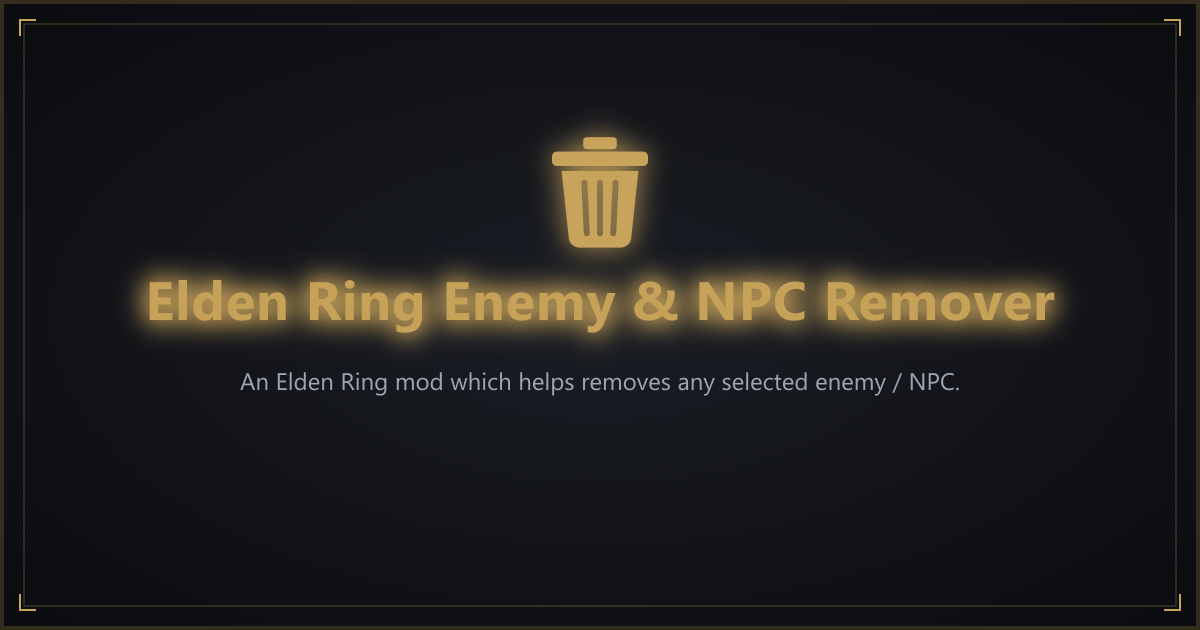
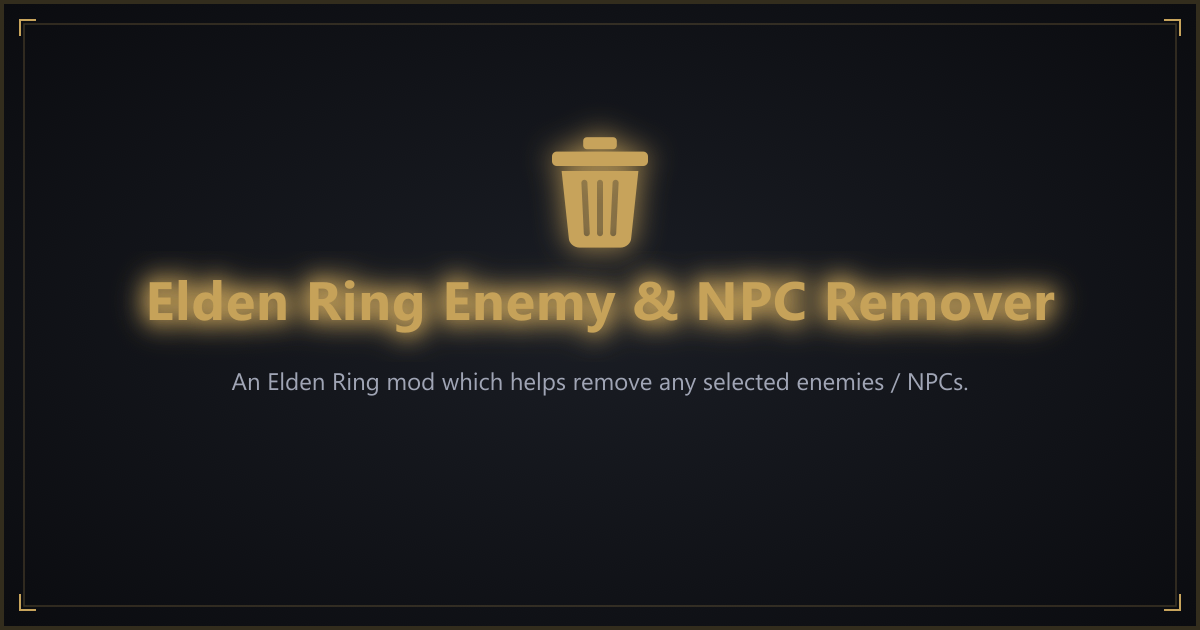
Updating the instructions a bit to fix language, as well as allow for deletion of the original files.

Changed region(s): [[0.185, 0.573, 0.8017, 0.6333]]

diff --git a/index.html b/index.html
@@ -4,10 +4,10 @@
     <meta charset="UTF-8">
     <title>Elden Ring Enemy & NPC Remover</title>
     <meta name="viewport" content="width=device-width, initial-scale=1.0">
-    <meta name="description" content="An Elden Ring mod which helps removes any selected enemy / NPC, whether to aid with phobias or for other reasons.">
+    <meta name="description" content="An Elden Ring mod which helps remove any selected enemies / NPCs, whether to aid with phobias or for other reasons.">
     <link rel="canonical" href="https://kazeraniman.github.io/enemy-and-npc-remover-web/">
     <meta property="og:title" content="Elden Ring Enemy & NPC Remover">
-    <meta property="og:description" content="An Elden Ring mod which helps removes any selected enemy / NPC, whether to aid with phobias or for other reasons.">
+    <meta property="og:description" content="An Elden Ring mod which helps remove any selected enemies / NPCs, whether to aid with phobias or for other reasons.">
     <meta property="og:image" content="https://kazeraniman.github.io/enemy-and-npc-remover-web/og-image.png">
     <meta property="og:url" content="https://kazeraniman.github.io/enemy-and-npc-remover-web/">
     <meta property="og:type" content="website">
@@ -83,7 +83,7 @@
                 <li>Navigate to the <code>chr</code> folder inside the <code>mod</code> folder. If it does not exist,
                     create it first. Ensure it is called exactly <code>chr</code>.
                 </li>
-                <li>Paste all the copied files into this folder.</li>
+                <li>Paste all the copied files into this folder. You can now go back and delete the zip file and the extracted files from before if you would like.</li>
                 <li>Launch your game the normal way you do with ModEngine2 and confirm that everything is working as
                     intended. You will not need to follow the previous steps again unless you want to change the
                     replacements.

diff --git a/README.md b/README.md
@@ -1,8 +1,8 @@
-# Elden Ring Enemy and NPC Remover
-An Elden Ring mod which helps removes any selected NPC / enemy, whether to aid with phobias or for other reasons.
+# Elden Ring Enemy & NPC Remover
+An Elden Ring mod which helps remove any selected enemies / NPCs, whether to aid with phobias or for other reasons.
 
 ## Concept
-The [original mod](https://www.nexusmods.com/eldenring/mods/4392) worked by replacing the files for a given character using [ModEngine2](https://github.com/soulsmods/ModEngine2). While the original mod works perfectly, it requires the user to find the ID of the enemy or NPC they wish to replace and then rename the files to that ID. This adds a bit of friction to the experience. This mod tries to help with this by providing a website which lets you pick the from a list of all entities and then provides you with the files to put in the mod folder to replace them. If you do not wish to run scripts on your computer, and just for general ease-of-use, I encourage using this version over the desktop version.
+The [original mod](https://www.nexusmods.com/eldenring/mods/4392) worked by replacing the files for a given character using [ModEngine2](https://github.com/soulsmods/ModEngine2). While the original mod works perfectly, it requires the user to find the ID of the enemy or NPC they wish to replace and then rename the files to that ID. This adds a bit of friction to the experience. This mod tries to help with this by providing a website which lets you pick from a list of all entities and then provides you with the files to put in the mod folder to replace them. If you do not wish to run scripts on your computer, and just for general ease-of-use, I encourage using this version over the desktop version.
 
 ## Webpage
 The current, live page may be viewed [here](https://kazeraniman.github.io/enemy-and-npc-remover-web/).
@@ -23,7 +23,7 @@ A button is provided on the webpage to display the usage instructions, but they 
 6. Navigate to the extracted files and copy all of them. This should not include any folders; just the files. The only things copied should be `.dcx` files.
 7. Navigate to the `mod` folder where you have installed ModEngine2. Please keep in mind this should be the `mod` folder inside ModEngine2, not the ModEngine2 folder itself.
 8. Navigate to the `chr` folder inside the `mod` folder. If it does not exist, create it first. Ensure it is called exactly `chr`.
-9. Paste all the copied files into this folder.
+9. Paste all the copied files into this folder. You can now go back and delete the zip file and the extracted files from before if you would like.
 10. Launch your game the normal way you do with ModEngine2 and confirm that everything is working as intended. You will not need to follow the previous steps again unless you want to change the replacements.
 
 ## Attribution
